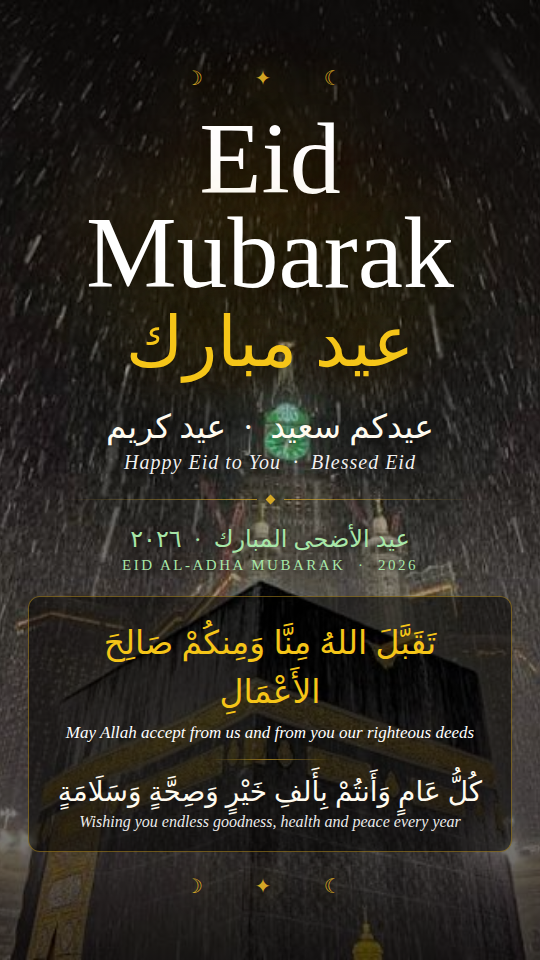
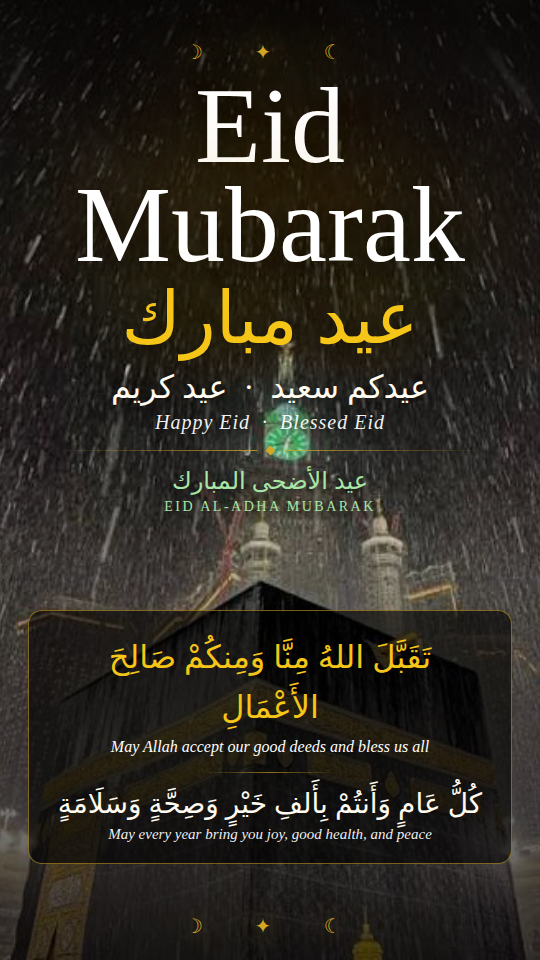
Remove date from flyer in both Arabic and English
Date removed so the flyer works for all countries regardless of
when they celebrate Eid.

https://claude.ai/code/session_019CBrARttbbbXgwwEYbMM8D

Changed region(s): [[0.0296, 0.0312, 0.9481, 0.9688]]

diff --git a/eid-al-adha-flyer.html b/eid-al-adha-flyer.html
@@ -235,8 +235,8 @@ body { background: #000; }
       <div class="dv-gem"></div>
       <div class="dv-line-r"></div>
     </div>
-    <span class="occ-ar">عيد الأضحى المبارك &nbsp;·&nbsp; ٢٠٢٦</span>
-    <span class="occ-en">Eid al-Adha Mubarak &nbsp;·&nbsp; 2026</span>
+    <span class="occ-ar">عيد الأضحى المبارك</span>
+    <span class="occ-en">Eid al-Adha Mubarak</span>
   </div>
 
   <!-- ═══ DUA + BLESSING ═══ -->
